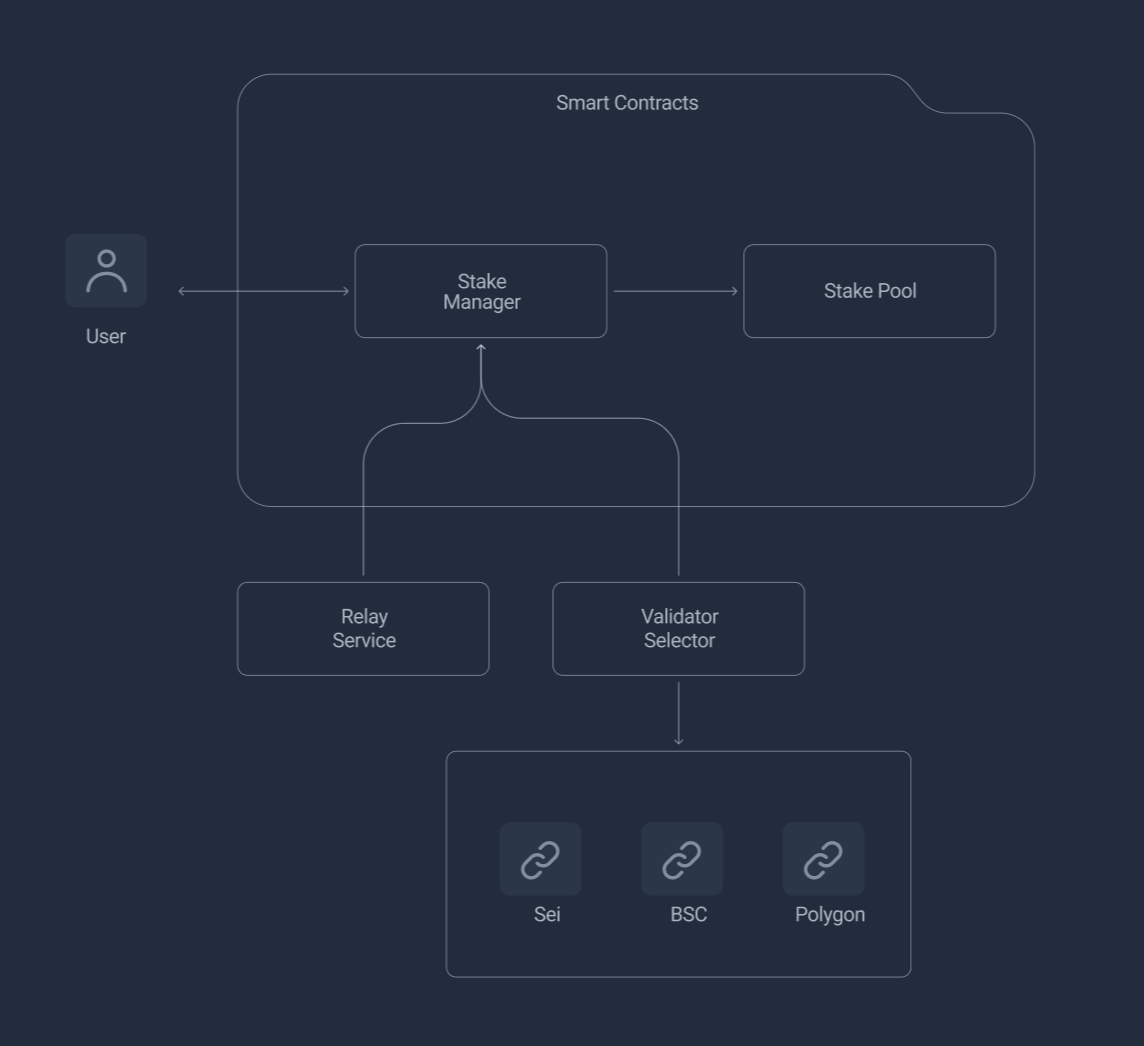
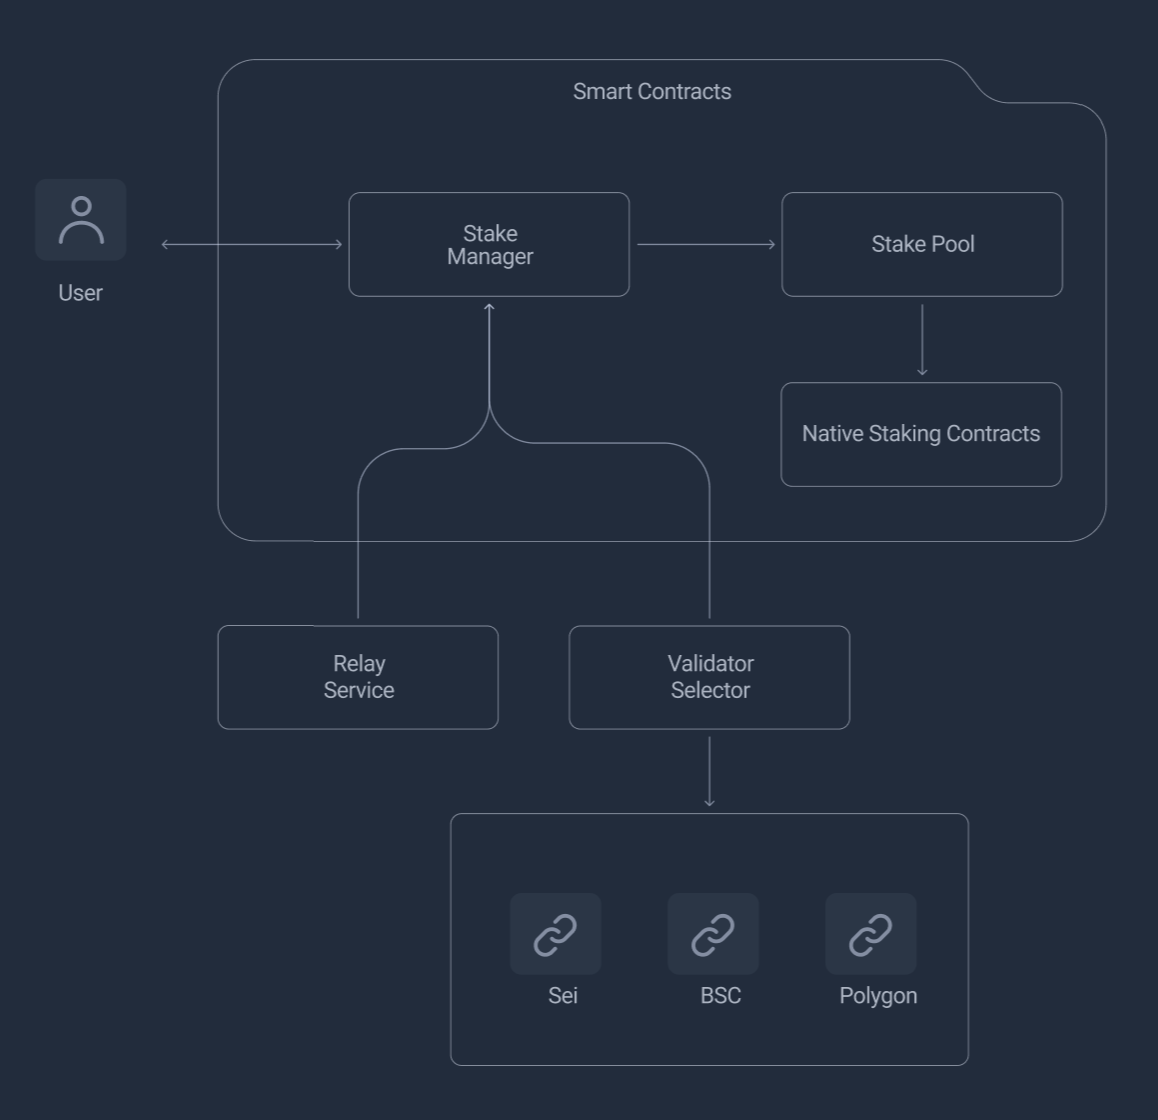
update evm lsd architecture doc

diff --git a/docs/architecture/evmlsd.md b/docs/architecture/evmlsd.md
@@ -36,9 +36,15 @@ As staking token is an ERC-20 compatible token, users should approve StakeManage
 
 ## User Unstake Flow
 
-Any LsdToken holder is a valid user, and can unstake tokens. At first, users should approve StakeManager to spend their token, next call *StakeManager.unstake* method to burn their LsdToken, last get their rewards by calling withdraw method.
+Any LsdToken holder is a valid user, and can unstake tokens. At first, users should approve StakeManager to spend their token, then call *StakeManager.unstake* method to burn their LsdToken.
 
 ![User Unstake Flow](/image/evmlsd_3.png 'User Unstake Flow')
+
+## User Withdraw Flow
+
+After unbonding period, users can get their rewards by calling *StakeManager.withdraw* method.
+
+![User Withdraw Flow](/image/evm_lsd/users_withdraw_flow.png 'User Withdraw Flow')
 
 ## Balance Staking Pools
 
